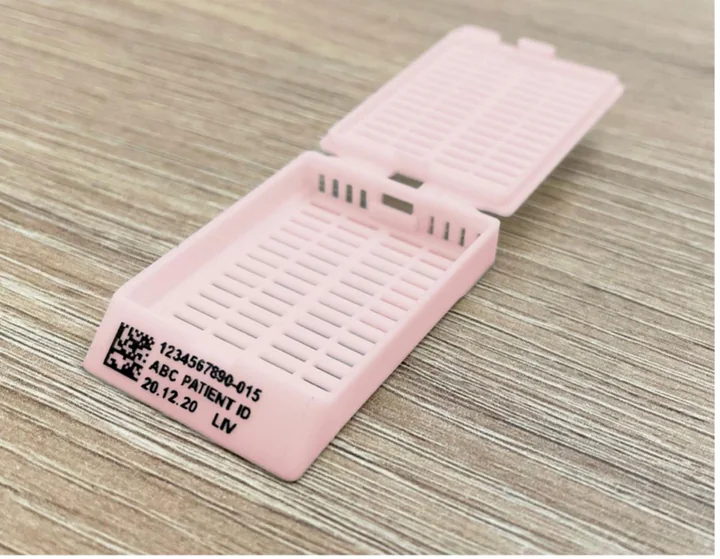
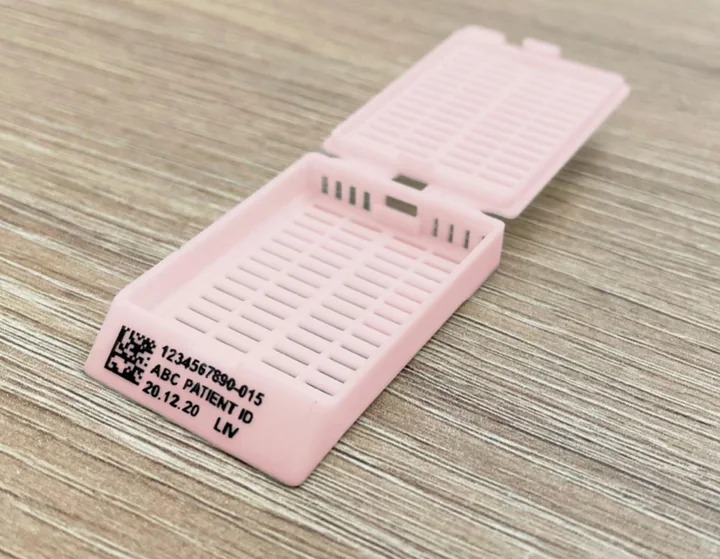
Deploy site (source 0920f4d)

diff --git a/index.html b/index.html
@@ -465,7 +465,7 @@
         </div>
         <div class="shots">
           <figure class="shot shot--wide reveal">
-            <img src="assets/img/cassette-marked-720.webp" srcset="assets/img/cassette-marked-720.webp 720w, assets/img/cassette-marked-1280.webp 1280w" sizes="(min-width: 62rem) 37rem, 100vw" width="1280" height="994" loading="lazy" alt="One of our histology cassettes, pink, lid open, with a DataMatrix code and three lines of sample text on its writing face">
+            <img src="assets/img/cassette-marked-720.webp" srcset="assets/img/cassette-marked-720.webp 720w, assets/img/cassette-marked-1268.webp 1268w" sizes="(min-width: 62rem) 37rem, 100vw" width="1268" height="984" loading="lazy" alt="One of our histology cassettes, pink, lid open, with a DataMatrix code and three lines of sample text on its writing face">
             <figcaption class="caption shot__caption">Marked cassette, sample data</figcaption>
           </figure>
           <figure class="shot reveal">
